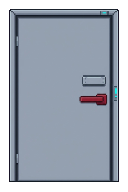
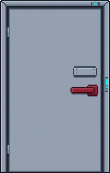
Sofort-Paket Teil 1: Standlinien-Trio behoben (B6/B7/B8) + Mood-Label-Fix
- Tür-Assets: eingebacktes Padding getrimmt + gemeinsame bodenbündige Leinwand 110x173
  (Türen stehen AUF der Wand-Fuß-Linie, sichtbare Höhe ~1,97 m = 1,13 H statt 1,77 m)
- BuildingStage: Statisten/Pförtner/Walker/Tür-Dummies bodenbündig (flex-end; Walker
  zusätzlich lineHeight:0 gegen Inline-Baseline-Spalt) — heilt die 11-16-px-Klasse
- buildingLayout: walkY-Offset -6 entfernt — Avatar exakt auf der Klassen-Linie
- DayReport: MOOD_LABEL_DE (audienceModel) statt roher ASCII-Mood-ID "wuetend"

Beweis: Nach-Ernte runs/visual-review/nach-fix2 -> Geometrie-Befunde 17->1
(übrig nur Shredder-Maßstab, owner-geschmack). Gate: tsc 0 - vitest 575 - build grün.

Claude-Session: https://claude.ai/code/session_01S4qpGaxAiDLDeGXN72gTep

diff --git a/desinformation-network/src/story-mode/building/BuildingStage.tsx b/desinformation-network/src/story-mode/building/BuildingStage.tsx
@@ -130,7 +130,9 @@ function AmbientPerson({ a, left, top, height }: { a: AmbientFigure; left: numbe
         onClick={() => setOpen((o) => !o)}
         aria-label={`${a.who} ansprechen`}
         title={`${a.who} ansprechen`}
-        style={{ width: (height / 96) * 48, height, background: 'transparent', border: 'none', cursor: 'pointer', padding: 0 }}
+        // flex-end: Sprite-Unterkante = Container-Unterkante = Wand-Fuß-Linie
+        // (sonst steht die Figur um die Skalierungs-Differenz zu hoch — Review B6).
+        style={{ width: (height / 96) * 48, height, background: 'transparent', border: 'none', cursor: 'pointer', padding: 0, display: 'flex', alignItems: 'flex-end', justifyContent: 'center' }}
       >
         <PixelSprite sheetId={a.figure} animation="idle" fallback="" scale={height / 96} title={a.who} />
       </button>
@@ -142,12 +144,14 @@ function AmbientPerson({ a, left, top, height }: { a: AmbientFigure; left: numbe
 function AmbientWalker({ figureWalk, leftA, d, top, height }: { figureWalk: string; leftA: number; d: number; top: number; height: number }) {
   const dur = Math.max(6, Math.round(d / 26)); // ~26 px/s, ruhiges Tempo
   const outer = {
-    position: 'absolute', left: leftA, top, zIndex: 2, pointerEvents: 'none',
+    position: 'absolute', left: leftA, top, height, zIndex: 2, pointerEvents: 'none',
     animation: `bs-walk-move ${dur}s linear infinite`, '--bs-walk-d': `${d}px`,
+    display: 'flex', alignItems: 'flex-end', // Füße auf die Wand-Fuß-Linie (B6)
   } as CSSProperties;
   return (
     <div data-bs-walker="" aria-hidden style={outer}>
-      <div style={{ animation: `bs-walk-flip ${dur}s linear infinite` }}>
+      {/* lineHeight 0: sonst hebt der Inline-Baseline-Abstand den Sprite ~6 px an. */}
+      <div style={{ animation: `bs-walk-flip ${dur}s linear infinite`, lineHeight: 0 }}>
         <PixelSprite sheetId={figureWalk} animation="walk" fallback="" scale={height / 96} title="" />
       </div>
     </div>
@@ -161,8 +165,9 @@ function DoorDummy({ figure, left, top, height, delayS }: { figure: string; left
       data-bs-dummy=""
       aria-hidden
       style={{
-        position: 'absolute', left, top, transform: 'translateX(-50%)', zIndex: 2, pointerEvents: 'none',
+        position: 'absolute', left, top, height, transform: 'translateX(-50%)', zIndex: 2, pointerEvents: 'none',
         animation: `bs-door-traffic 17s ease-in-out ${delayS}s infinite`, opacity: 0,
+        display: 'flex', alignItems: 'flex-end', justifyContent: 'center', // Füße auf die Linie (B6)
       }}
     >
       <PixelSprite sheetId={figure} animation="idle" fallback="" scale={height / 96} title="" />
@@ -667,7 +672,7 @@ export function BuildingStage({ npcs, nav, onRoomClick, onOpenDirectory, interac
                 onClick={() => setPfoertnerOpen((o) => !o)}
                 aria-label="Pförtner ansprechen"
                 title="Pförtner ansprechen"
-                style={{ width: 48 * 1.2, height: pH, background: 'transparent', border: 'none', cursor: 'pointer', padding: 0 }}
+                style={{ width: 48 * 1.2, height: pH, background: 'transparent', border: 'none', cursor: 'pointer', padding: 0, display: 'flex', alignItems: 'flex-end', justifyContent: 'center' }}
               >
                 <PixelSprite sheetId="figure_pfoertner" animation="idle" fallback="" scale={1.2} title="Pförtner" />
               </button>

diff --git a/desinformation-network/src/story-mode/components/DayReport.tsx b/desinformation-network/src/story-mode/components/DayReport.tsx
@@ -1,5 +1,6 @@
 import { useEffect } from 'react';
 import { StoryModeColors } from '../theme';
+import { MOOD_LABEL_DE, type Mood } from '../audience/audienceModel';
 import type { NightReport } from '../engine/ImmuneSystem';
 import type { TrancheResult } from '../engine/Finanzen';
 
@@ -172,7 +173,7 @@ export function DayReport({
                     <li key={seg.label}>
                       <div className="flex justify-between text-xs mb-0.5">
                         <span style={{ color: StoryModeColors.textPrimary }}>{seg.label}</span>
-                        <span style={{ color: StoryModeColors.textSecondary }}>{seg.mood}</span>
+                        <span style={{ color: StoryModeColors.textSecondary }}>{MOOD_LABEL_DE[seg.mood as Mood] ?? seg.mood}</span>
                       </div>
                       <div
                         className="h-2 rounded-sm overflow-hidden"

diff --git a/desinformation-network/src/story-mode/audience/audienceModel.ts b/desinformation-network/src/story-mode/audience/audienceModel.ts
@@ -16,6 +16,15 @@ import audienceData from '../data/audience.json';
 export type Mood = 'ruhig' | 'verunsichert' | 'wuetend' | 'misstrauisch';
 export type Channel = 'tv' | 'print' | 'social';
 
+/** Anzeige-Labels der Stimmungen — die Mood-IDs sind ASCII (Keys), sichtbarer
+ *  Text braucht die Umlaut-Form (Review B18: DayReport zeigte rohes „wuetend"). */
+export const MOOD_LABEL_DE: Record<Mood, string> = {
+  ruhig: 'ruhig',
+  verunsichert: 'verunsichert',
+  wuetend: 'wütend',
+  misstrauisch: 'misstrauisch',
+};
+
 export interface AudienceSegment {
   id: string;
   label_de: string;

diff --git a/desinformation-network/src/story-mode/building/buildingLayout.ts b/desinformation-network/src/story-mode/building/buildingLayout.ts
@@ -91,7 +91,9 @@ function computeLayout(): BuildingLayout {
 
   const floors: FloorLayout[] = floorsRaw.map((f, idx) => {
     const y = roofHeight + idx * (floorHeight + slabHeight);
-    return { ...f, y, walkY: y + floorHeight - avatarSize - 6 };
+    // Avatar-Unterkante exakt auf der Wand-Fuß-Linie — der frühere −6-Offset
+    // ließ ihn als einzige Klasse über der Linie stehen (Review B8).
+    return { ...f, y, walkY: y + floorHeight - avatarSize };
   });
   const height = roofHeight + floors.length * (floorHeight + slabHeight) + groundHeight;
 

diff --git a/docs/VISUAL_REVIEW_2026-07-05.md b/docs/VISUAL_REVIEW_2026-07-05.md
@@ -93,6 +93,15 @@ Befund-Familien**, P3–P5 sind Einzelkorrekturen.
 
 ### P2 — Realitätssicht/Standlinien (Messwerte aus §1 + Wahrnehmung bestätigt)
 
+> **✅ UPDATE 2026-07-06: B6/B7/B8 in dieser Session BEHOBEN** (Owner-Go „was flott
+> geht, hier erledigen"): Tür-Assets getrimmt + auf gemeinsame bodenbündige Leinwand
+> normalisiert (110×173) · PixelSprite-Bodenbündigkeit via flex-end (Statisten/
+> Pförtner/Walker/Tür-Dummies; Walker brauchte zusätzlich lineHeight:0 gegen den
+> Inline-Baseline-Spalt) · walkY-Offset −6 entfernt · Mood-Label „wuetend"→„wütend"
+> (MOOD_LABEL_DE, Teil von B18). **Nach-Messung (runs/visual-review/nach-fix2):
+> 17 → 1 Geometrie-Befund** — übrig nur die Shredder-Maßstabsfrage (owner-geschmack).
+> Gate grün (tsc 0 · vitest 575 · build). B9–B12 bleiben für die Bau-Session.
+
 | # | Befund | Beleg | Kategorie |
 |---|---|---|---|
 | B6 | **Statisten/Pförtner/Walker/Tür-Dummies schweben 11–16 px** über der Wand-Fuß-Linie („Füße enden mitten im Wandsockel") — EIN `PixelSprite`-Container-Fix heilt alle vier Figuren-Typen. V7-Fehler-Typ an neuer Stelle. | building_etage3/4, overlay-Renders, §1.1 | code-fix |

diff --git a/docs/STATUS.md b/docs/STATUS.md
@@ -37,6 +37,8 @@ sondern verlinkt sie. **Jede Session aktualisiert dieses Dokument.**
 >   **L0 Stil-Lock entschieden: Materialwelt „Behörden-Akte"** (Papier/Karteikarten/Stempel)
 >   → kanonisch als Stil-Bibel **§4.7**; Mockups generiert (0,80 $). Nächste Session:
 >   Sofort-Paket (Review P1/P2/P4) + L1 Papier-Material-Kit (Kickoff-Prompt im Plan §7).
+>   **Standlinien-Trio bereits hier behoben** (B6/B7/B8 + „wuetend"-Label): Tür-Trim,
+>   PixelSprite-flex-end, walkY-Offset — Nach-Messung 17→1 Geometrie-Befund, Gate grün.
 
 **Stand:** 2026-07-05 (ETAPPE 5 „Fertig" — der Versionssprung, TEILWEISE) · Branch
 `claude/etappe-5-handoff-setup-29psoe` (Draft-PR, baut auf Etappe 0–4) · Gate grün
